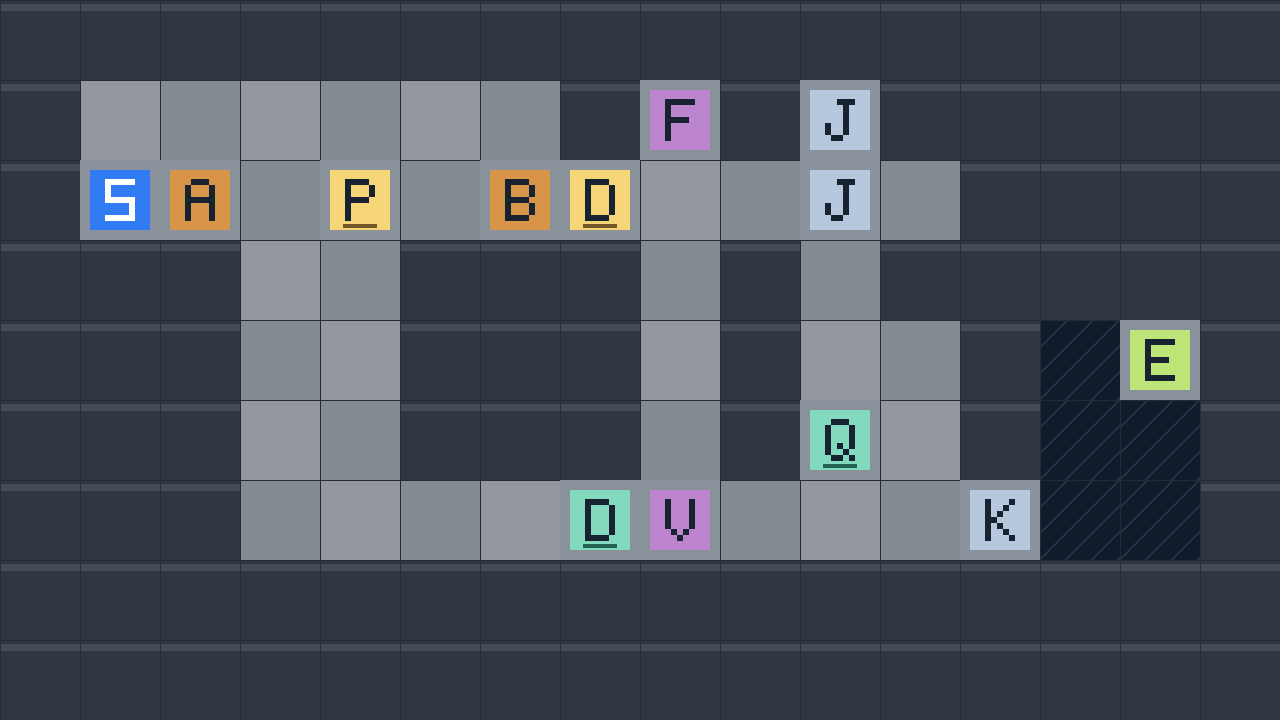
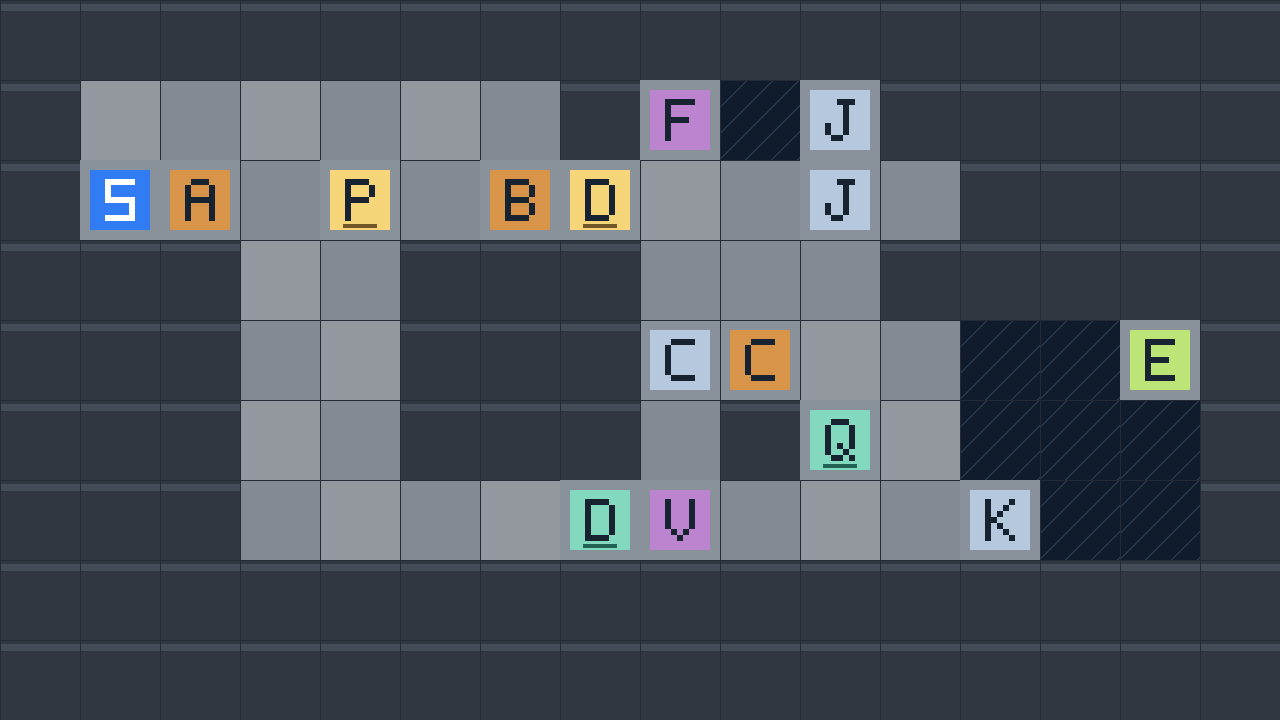
level3

Changed region(s): [[0.5, 0.3361, 0.625, 0.5806], [0.75, 0.4278, 0.8125, 0.6722], [0.5625, 0.0917, 0.625, 0.2444]]

diff --git a/Assets/Scripts/PrototypePlayer.cs b/Assets/Scripts/PrototypePlayer.cs
@@ -55,7 +55,12 @@ public sealed class PrototypePlayer : MonoBehaviour
 
     [SerializeField] private PrototypeFallingBlock[] fallingBlocks = System.Array.Empty<PrototypeFallingBlock>();
 
+    [SerializeField] private PrototypePressureGate[] gates = System.Array.Empty<PrototypePressureGate>();
+    [SerializeField] private string levelHint;
+    [SerializeField] private float fallLimit = -4f;
+
     private GameObject platformPhysics;
+    private BoxCollider2D[] projectedBoxes;
     private Rigidbody2D platformBody;
     private CapsuleCollider2D platformShape;
     private BoxCollider2D[] projectedSolids;
@@ -63,7 +68,7 @@ public sealed class PrototypePlayer : MonoBehaviour
 
     public PlayerMode Mode { get; private set; }
 
-    private void Awake()
+    private void Start()
     {
         body = GetComponent<Rigidbody>();
         capsule = GetComponent<CapsuleCollider>();
@@ -74,10 +79,6 @@ public sealed class PrototypePlayer : MonoBehaviour
         body.interpolation = RigidbodyInterpolation.None;
         CreatePlatformPhysics();
         SetMode(PlayerMode.Grid);
-    }
-
-    private void Start()
-    {
         initialState = CaptureState();
     }
 
@@ -156,7 +157,7 @@ public sealed class PrototypePlayer : MonoBehaviour
         if (TryCompleteLevel())
             return;
 
-        if (Mode == PlayerMode.Platform && platformBody.position.y < -4f)
+        if (Mode == PlayerMode.Platform && platformBody.position.y < fallLimit)
         {
             // Respawn without adding a step: undo still targets the action that caused the fall.
             RestoreState(initialState);
@@ -190,6 +191,14 @@ public sealed class PrototypePlayer : MonoBehaviour
             var projection = new GameObject(platformSolids[i].name + " footprint");
             projection.transform.SetParent(platformPhysics.transform);
             projectedSolids[i] = projection.AddComponent<BoxCollider2D>();
+        }
+
+        projectedBoxes = new BoxCollider2D[boxes.Length];
+        for (int i = 0; i < boxes.Length; i++)
+        {
+            var projection = new GameObject(boxes[i].name + " footprint");
+            projection.transform.SetParent(platformPhysics.transform);
+            projectedBoxes[i] = projection.AddComponent<BoxCollider2D>();
         }
 
         foreach (PrototypeFallingBlock block in fallingBlocks)
@@ -423,6 +432,11 @@ public sealed class PrototypePlayer : MonoBehaviour
         activeAction = kind;
         activePushBox = box;
         body.position = cell;
+        if (box != null)
+        {
+            RefreshGates();
+            Physics.SyncTransforms();
+        }
     }
 
     private bool HasSupport(Vector3 position)
@@ -452,6 +466,22 @@ public sealed class PrototypePlayer : MonoBehaviour
         return false;
     }
 
+    private void RefreshGates()
+    {
+        foreach (PrototypePressureGate gate in gates)
+            gate.Refresh(boxes);
+    }
+
+    private static void UpdateProjection(BoxCollider source, BoxCollider2D projection)
+    {
+        projection.enabled = source.enabled;
+        if (!source.enabled)
+            return;
+        Bounds bounds = source.bounds;
+        projection.transform.position = new Vector3(bounds.center.x, bounds.center.z, 0f);
+        projection.size = new Vector2(bounds.size.x, bounds.size.z);
+    }
+
     private void SetMode(PlayerMode mode)
     {
         Mode = mode;
@@ -461,15 +491,20 @@ public sealed class PrototypePlayer : MonoBehaviour
         bool platformMode = mode == PlayerMode.Platform;
         capsule.enabled = !platformMode;
         platformPhysics.SetActive(platformMode);
+        RefreshGates();
         // Publish the final falling-block footprints before any grid collision query.
         Physics.SyncTransforms();
         if (!platformMode)
             return;
         for (int i = 0; i < platformSolids.Length; i++)
+            UpdateProjection(platformSolids[i], projectedSolids[i]);
+        for (int i = 0; i < boxes.Length; i++)
         {
-            Bounds bounds = platformSolids[i].bounds;
-            projectedSolids[i].transform.position = new Vector3(bounds.center.x, bounds.center.z, 0f);
-            projectedSolids[i].size = new Vector2(bounds.size.x, bounds.size.z);
+            BoxCollider shape = boxes[i].GetComponent<BoxCollider>();
+            if (System.Array.IndexOf(platformSolids, shape) >= 0)
+                projectedBoxes[i].enabled = false;
+            else
+                UpdateProjection(shape, projectedBoxes[i]);
         }
         platformBody.simulated = true;
         platformBody.position = new Vector2(body.position.x, body.position.z);
@@ -485,9 +520,9 @@ public sealed class PrototypePlayer : MonoBehaviour
             ? "TOP VIEW / A D or Left Right / Space: Jump"
             : "GRID / WASD or Arrows";
         if (levelComplete)
-            controls = "LEVEL COMPLETE!";
+            controls = NextLevelIndex >= 0 ? "LEVEL COMPLETE!" : "ALL LEVELS COMPLETE!";
         else if (levelExit != null)
-            controls += fallingBlocks.Length == 0 ? "\nReach the green exit."
+            controls += !string.IsNullOrEmpty(levelHint) ? "\n" + levelHint : fallingBlocks.Length == 0 ? "\nReach the green exit."
                 : "\nLet the block drop in 2D, then walk to the exit.";
         float panelHeight = levelExit != null && !levelComplete ? 66f : 50f;
         GUI.Box(new Rect(12, 12, 360, panelHeight), controls + "\nTab: Switch     R: Restart");

diff --git a/Assets/Scripts/PrototypeCamera.cs b/Assets/Scripts/PrototypeCamera.cs
@@ -7,11 +7,18 @@ public sealed class PrototypeCamera : MonoBehaviour
     [SerializeField] private Vector3 focus = new Vector3(0f, 0.5f, 0f);
     [SerializeField, Range(0f, 89f)] private float gridPitch = 45f;
 
+    [SerializeField] private bool followRows;
+    [SerializeField] private float minFocusZ;
+    [SerializeField] private float maxFocusZ;
+
     private void LateUpdate()
     {
         float pitch = player.Mode == PlayerMode.Platform ? 90f : gridPitch;
         Quaternion rotation = Quaternion.Euler(pitch, 0f, 0f);
         Vector3 offset = rotation * new Vector3(0f, 0f, -16f);
-        transform.SetPositionAndRotation(focus + offset, rotation);
+        Vector3 target = focus;
+        if (followRows)
+            target.z = Mathf.Clamp(player.transform.position.z, minFocusZ, maxFocusZ);
+        transform.SetPositionAndRotation(target + offset, rotation);
     }
 }

diff --git a/Assets/Scripts/PrototypeFallingBlock.cs b/Assets/Scripts/PrototypeFallingBlock.cs
@@ -9,6 +9,8 @@ public sealed class PrototypeFallingBlock : MonoBehaviour
         public Vector2 Velocity;
     }
 
+    [SerializeField, Min(0f)] private float gravityScale = 1f;
+
     private Rigidbody2D footprint;
     private float worldHeight;
     public State CurrentState { get; private set; }
@@ -26,6 +28,7 @@ public sealed class PrototypeFallingBlock : MonoBehaviour
         footprint.constraints = RigidbodyConstraints2D.FreezePositionX | RigidbodyConstraints2D.FreezeRotation;
         footprint.collisionDetectionMode = CollisionDetectionMode2D.Continuous;
         footprint.mass = 100f;
+        footprint.gravityScale = gravityScale;
         var projectedShape = proxy.AddComponent<BoxCollider2D>();
         Vector3 size = Vector3.Scale(shape.size, transform.lossyScale);
         projectedShape.size = new Vector2(size.x, size.z);
